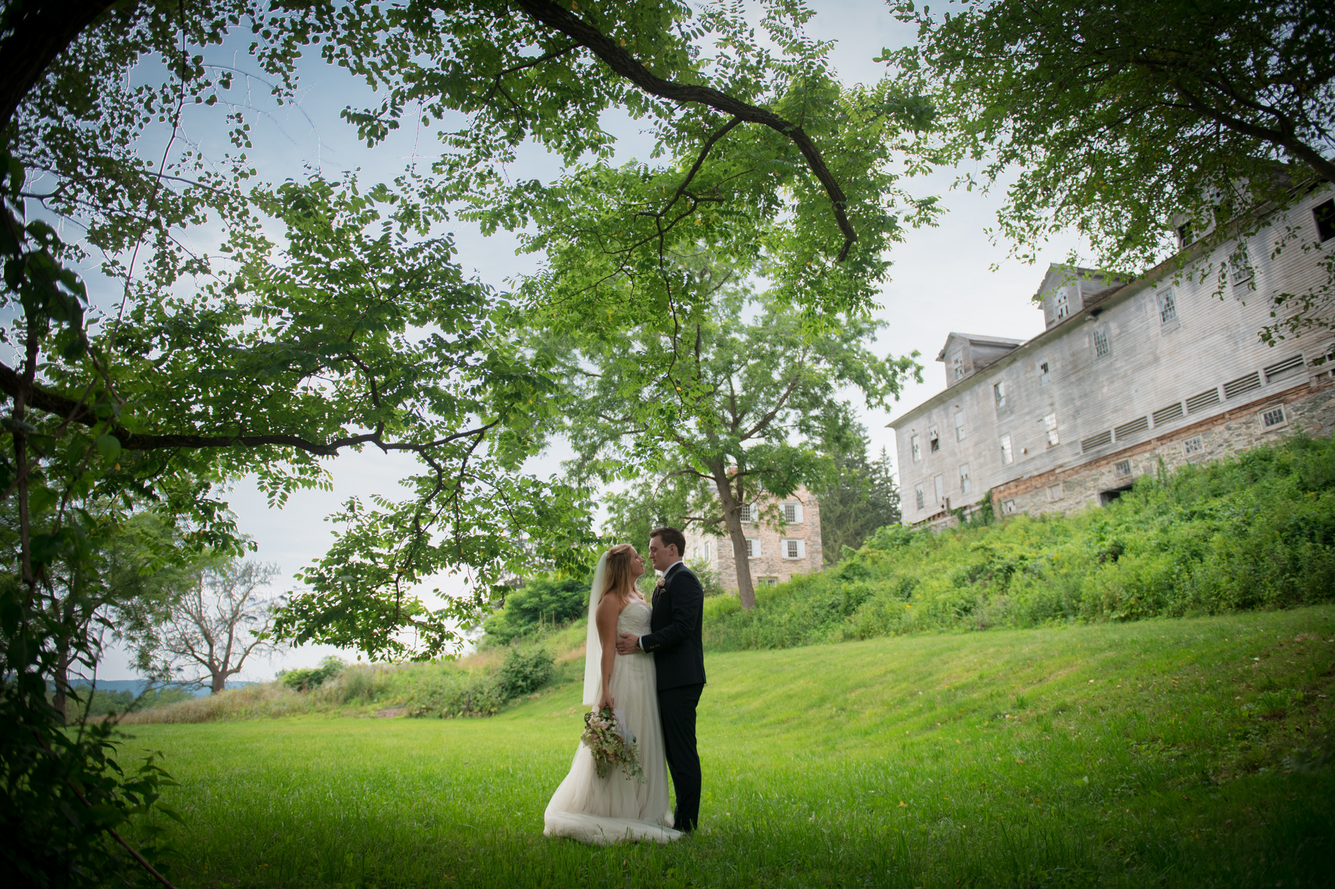
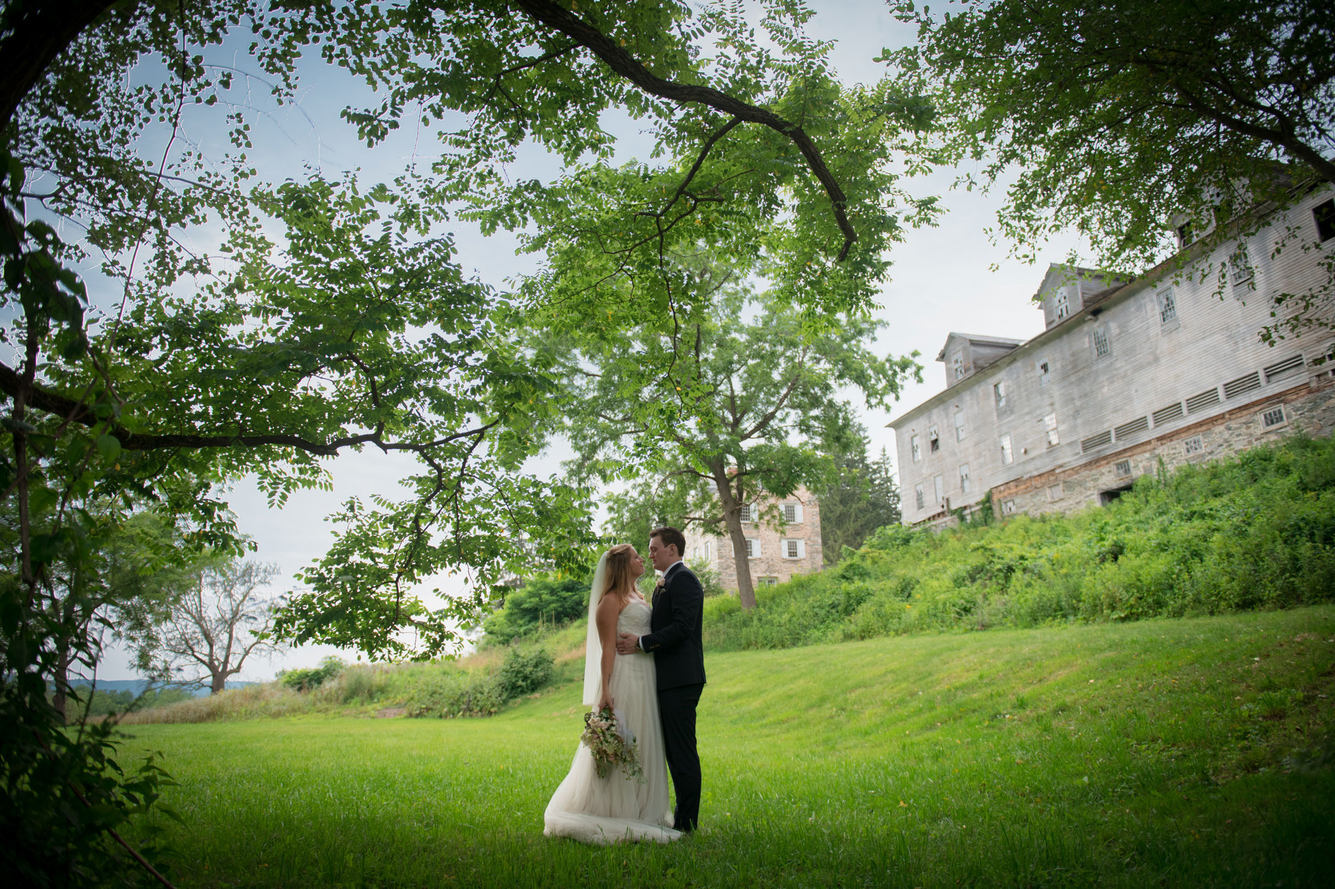
compressed pictures and added weven contact form

diff --git a/src/App.js b/src/App.js
@@ -66,7 +66,7 @@ function App() {
         <h2>Step back in history to celebrate your future.</h2>
 
         <p>
-          Once the settlement of 80 Shakers, The Ruins at Sassafras Farm
+          Once the settlement of 67 Shakers, The Ruins at Sassafras Farm
           resonates with history and natural beauty and promises a setting that
           defines unique—truly one of a kind.
         </p>
@@ -150,7 +150,7 @@ function App() {
         <h2>This was it!</h2>
         <p>
           Within a month of taking ownership, we began the design for the
-          restoration and renovation of this historic site where over 80 Shakers
+          restoration and renovation of this historic site where over 67 Shakers
           lived and worked from 1790 to 1938. The Brethren’s Workshop,
           caretaker’s cottage, chair factory, and former dwelling ruins were all
           in need of extensive work. Our love of history and restoration
@@ -266,7 +266,69 @@ function App() {
         <header>
           <h1>Contact</h1>
         </header>
-        <ContactForm />
+        <iframe
+          title="Weven Contact Form"
+          id="contact-form"
+          src="https://weven.co/embed/lead-form/534"
+          sandbox="allow-same-origin allow-top-navigation allow-scripts allow-forms allow-popups"
+          width="655"
+          style={{
+            border: 'none',
+            maxWidth: '100%',
+            display: 'block',
+            marginLeft: 'auto',
+            marginRight: 'auto',
+          }}
+          onload={() => {
+            var self = this;
+            window.addEventListener(
+              'message',
+              function (e) {
+                if (
+                  e.source === self.contentWindow &&
+                  e.data &&
+                  e.data.width &&
+                  e.data.height
+                ) {
+                  self.width = e.data.width;
+                  self.height = e.data.height;
+                }
+              },
+              false
+            );
+          }}
+        ></iframe>
+        <p>
+          We’re also pleased to offer our wedding clients complimentary access
+          to an online planning portal to support the coordination of their
+          event at The Ruins at Sassafras Farm.
+        </p>
+
+        <ul>
+          <h3>This portal comes full of fun features like:</h3>
+          <li>A planning checklist to help you stay on track.</li>
+          <li>
+            A custom wedding website builder to share important event details
+            with guests.
+          </li>
+          <li>
+            Vendor recommendations and a place to share vendor information with
+            us, your host.
+          </li>
+          <li>A place to store and share documents.</li>
+          <li>A messaging system to send us questions as needed.</li>
+          <li>AND MORE!</li>
+        </ul>
+        <a
+          id="weven-badge"
+          href="https://weven.co/wedding-venue/534/The-Ruins-at-Sassafras-Farm"
+          title="Powered By Weven."
+        >
+          <img
+            src="https://cdn.weven.co/400x400/misc-img/Powered-By-Weven.png"
+            alt="Powered By Weven. Partner since 2022"
+          />
+        </a>
       </section>
       <div className="pre-footer">
         <a href="https://www.instagram.com/sassafras.inc/">

diff --git a/src/App.css b/src/App.css
@@ -244,7 +244,7 @@ footer > p > a {
 
 .closebtn {
   transform: translate(-5%, 0%);
-  /* font-size: xxx-large; */
+  font-size: xxx-large;
   z-index: 3;
   position: fixed;
   color: white;
@@ -252,49 +252,57 @@ footer > p > a {
   width: 100%;
 }
 
-#contact_form {
-  text-align: center;
-  /* font-size: x-large; */
-  max-width: 400px;
-  margin: auto;
-}
-
-input {
-  width: 100%;
-  /* font-size: large; */
-  margin-right: 1em;
-}
-
-#contact_form > textarea {
-  resize: none;
-  width: 100%;
-}
-
-#contact_form > div {
-  display: flex;
-}
-
-#contact_form > div > label {
-  flex: 0 0 9em;
-}
-
-#contact_form > #name > label {
-  flex: 0 0 5em;
-}
-
-#phone {
-  width: 6em;
-}
-
-#date {
-  width: 8em;
-}
-
 #map {
   max-width: 600px;
   width: 100%;
   margin-bottom: 3em;
   object-fit: contain;
+}
+
+#contact-form {
+  height: 1090px;
+}
+
+#weven-badge {
+  display: block;
+  margin-left: auto;
+  margin-right: auto;
+  margin-top: 10px;
+  width: 200px;
+  max-width: 100%;
+}
+
+#weven-badge > img {
+  max-width: 95%;
+}
+
+ul {
+  max-width: 600px;
+  margin: auto;
+  list-style-position: inside;
+  list-style-type: none;
+  padding: 0;
+}
+
+ul > h3 {
+  margin: 10px;
+}
+
+li {
+  font-size: 1.2em;
+  padding: 0.2em;
+}
+
+@media only screen and (min-width: 420px) {
+  #contact-form {
+    height: 900px;
+  }
+}
+
+@media only screen and (min-width: 648px) {
+  #contact-form {
+    height: 810px;
+  }
 }
 
 @media only screen and (min-width: 850px) {
